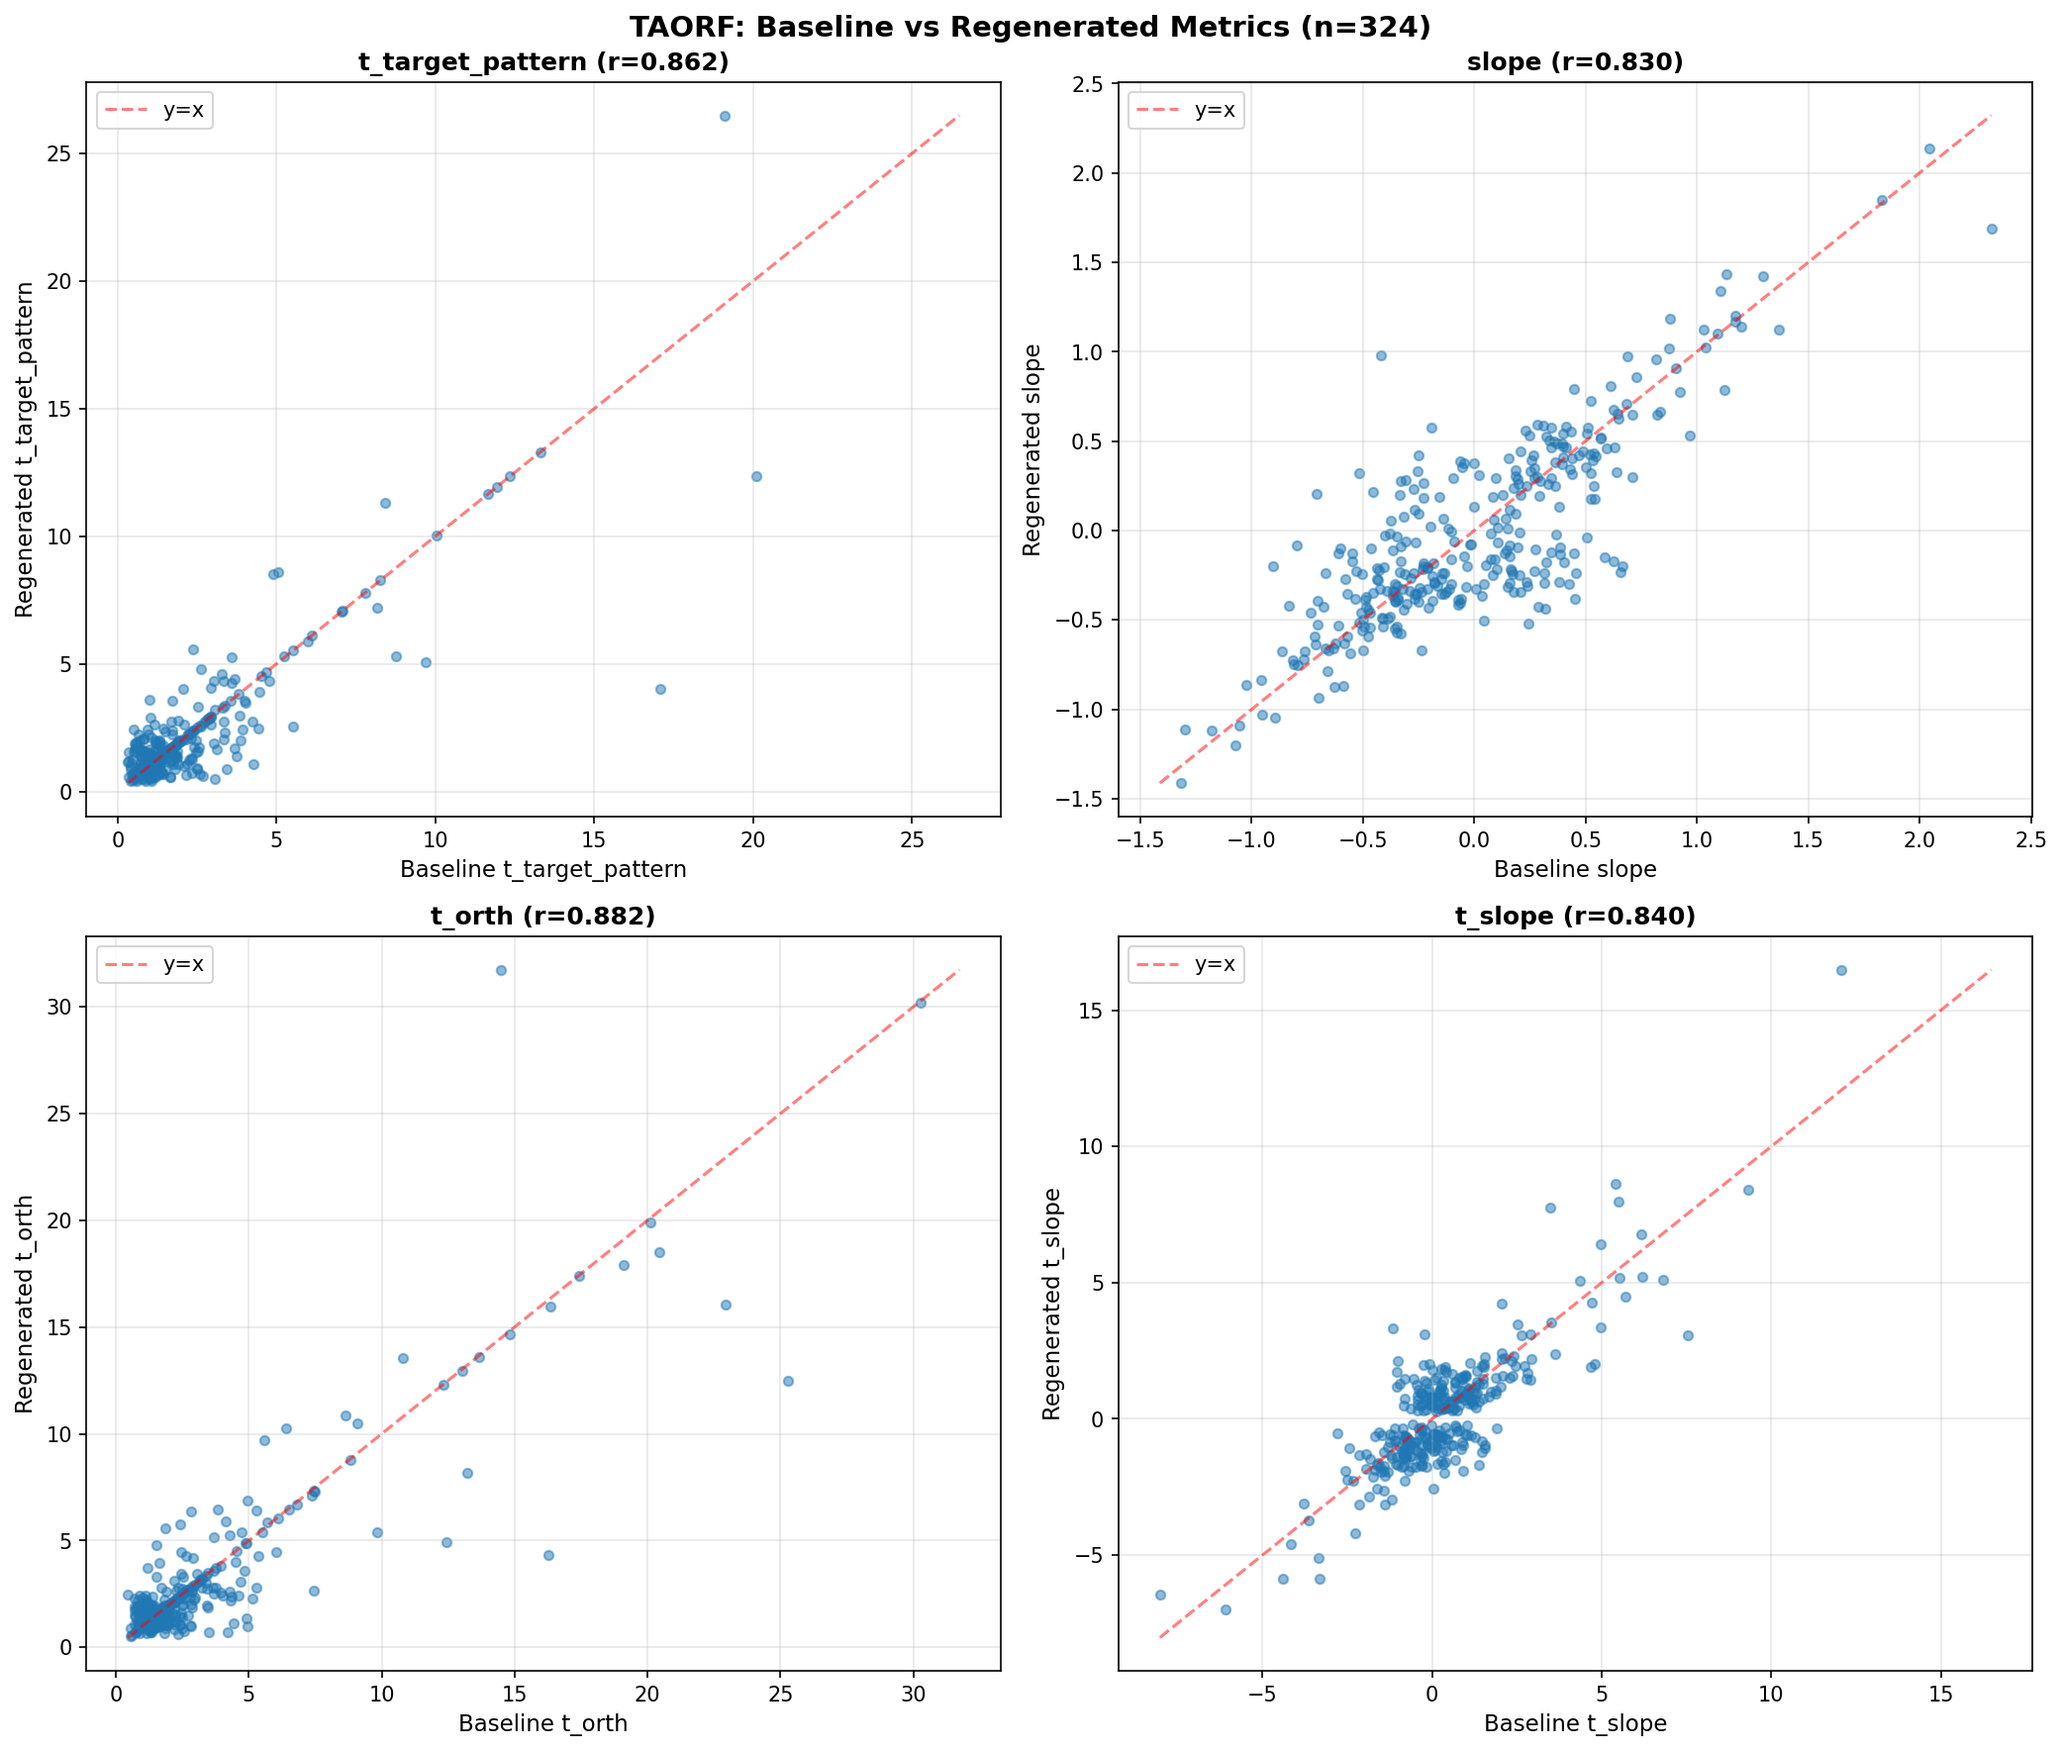
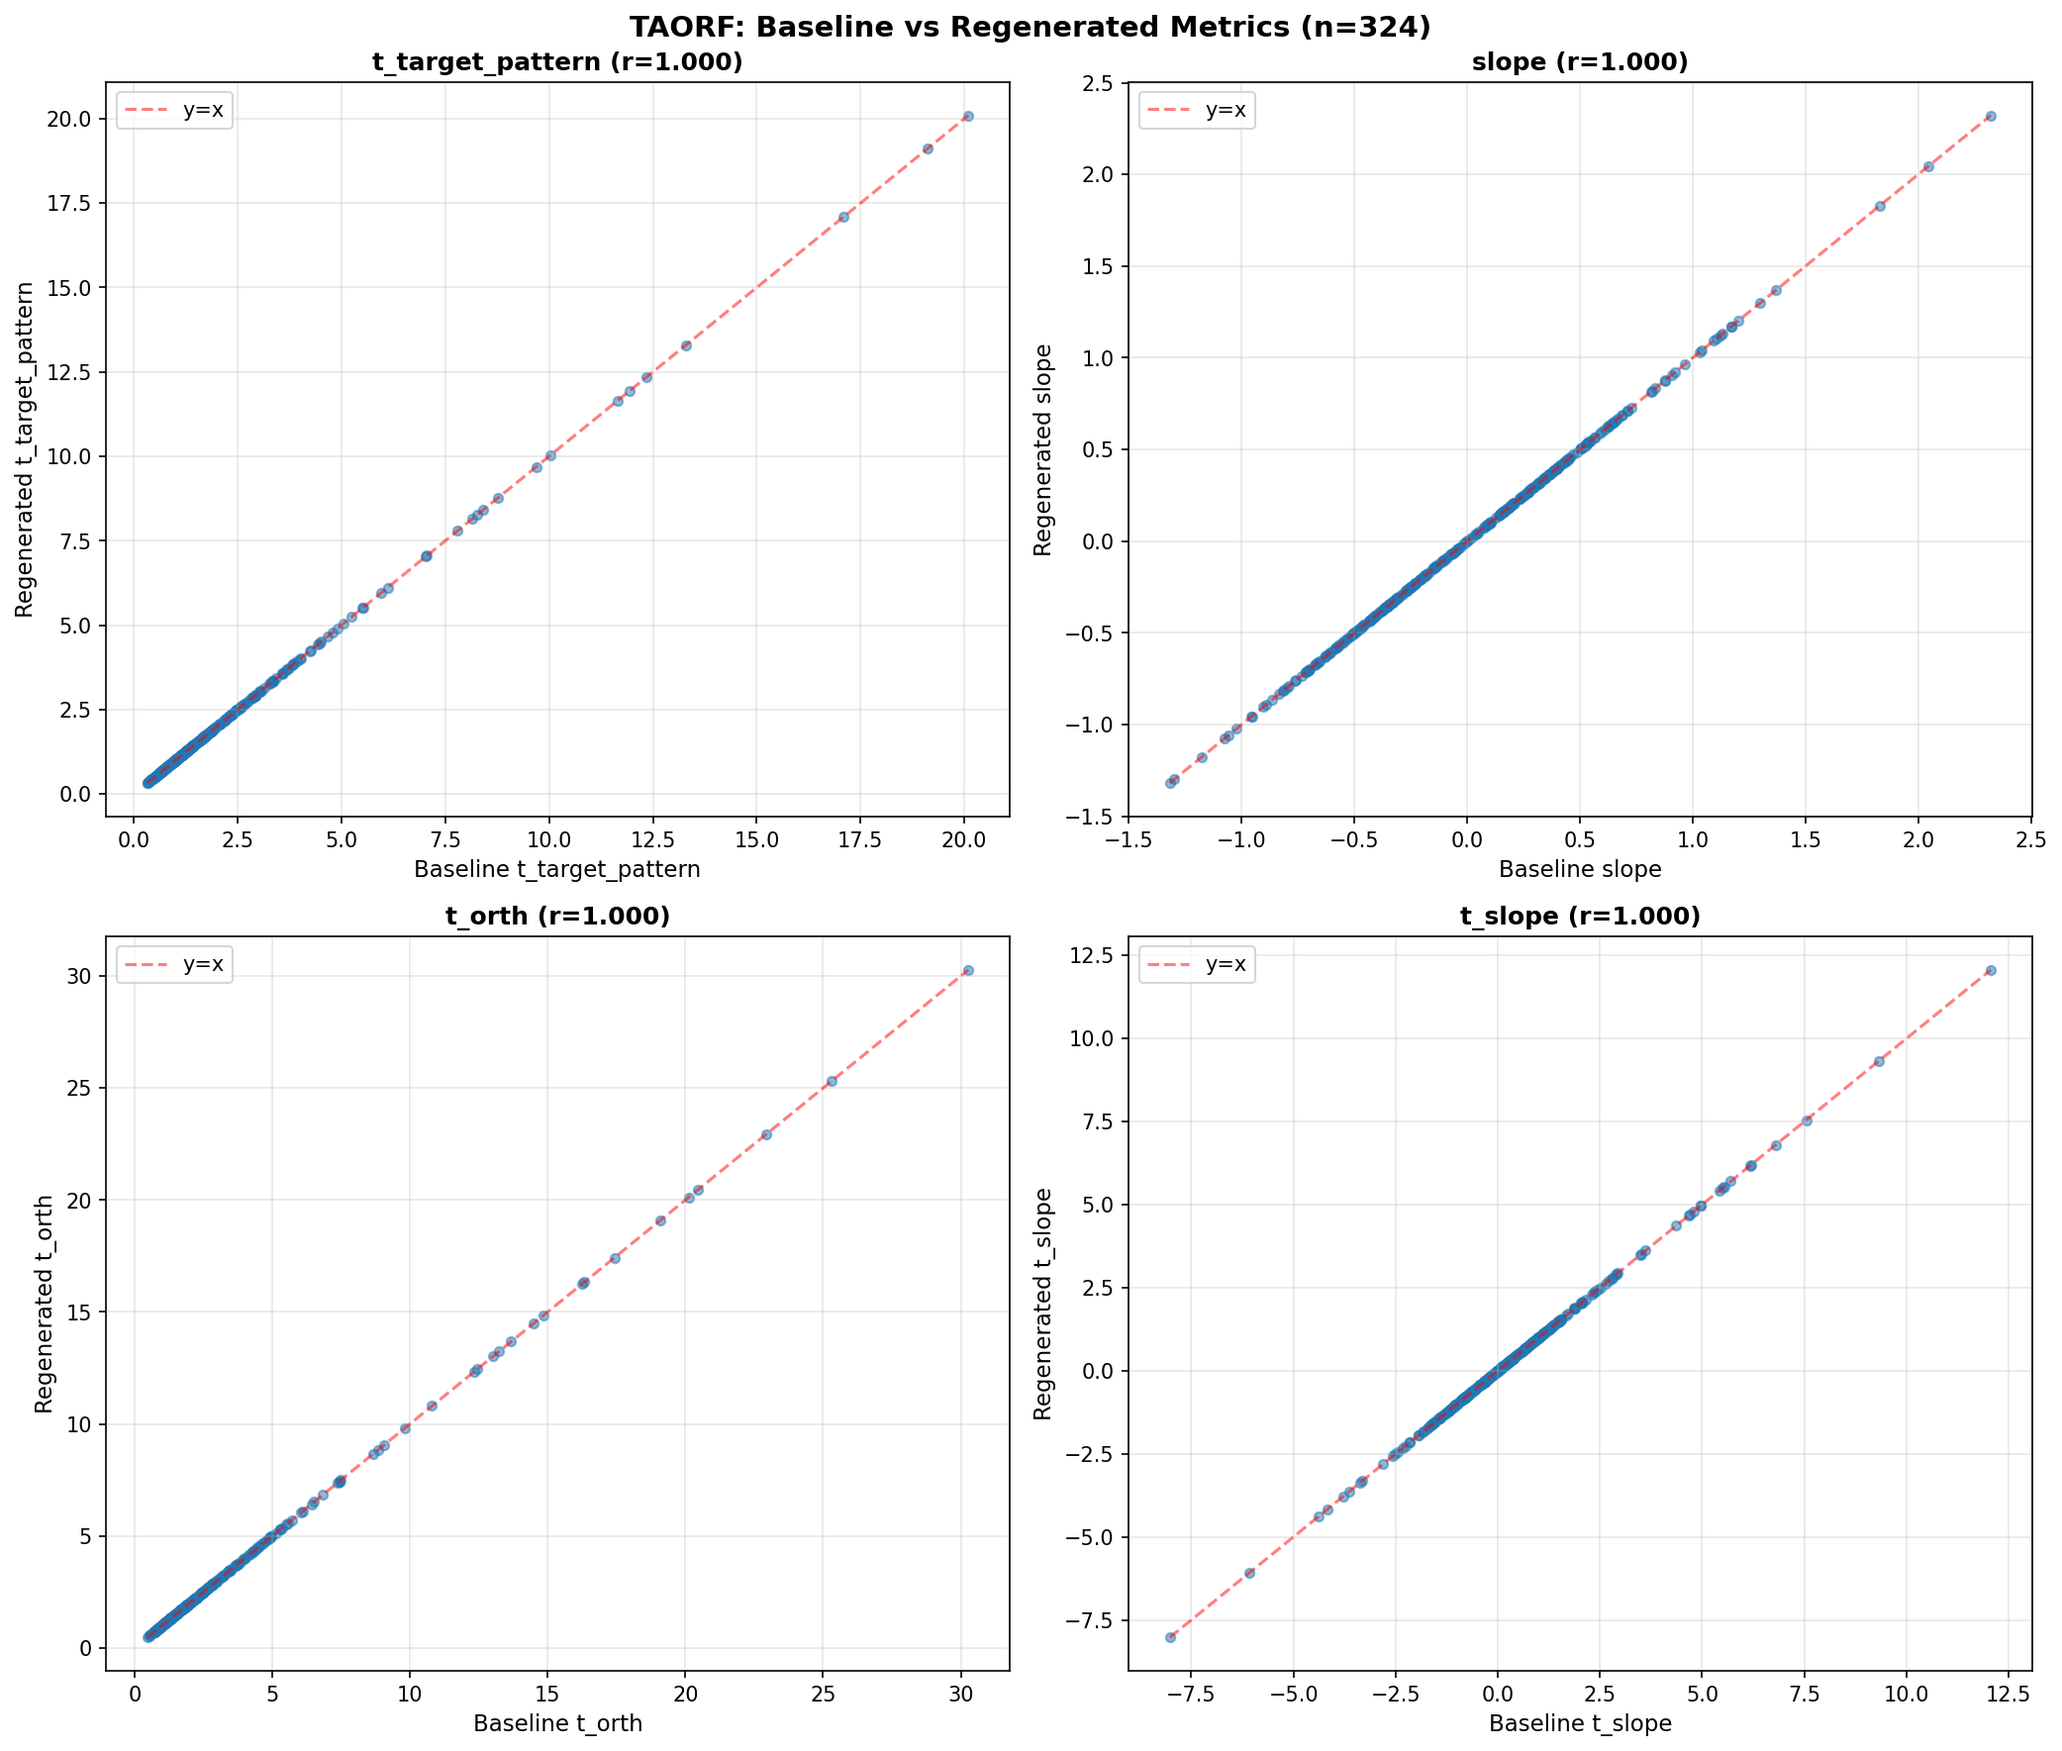
fix: achieve perfect baseline reproduction (r=1.000) for all metrics
Two key fixes identified from upstream notebook 3.rank_perturbations.ipynb:

1. Pre-standardize radial features per plate BEFORE control subtraction
   (calculate_metrics: added z-score normalization at line 272-277)

2. Use nanpercentile for median plate selection instead of argsort(abs())
   (calculate_statistical_tests: lines 528-534)

Also added second standardization pass for radial + orthogonal features
before statistical tests (matches upstream double-standardization).

Results on taorf (n=324) and lincs (n=9395):
- All metrics now show r=1.000 with baseline
- 99.7-100% within 10% agreement

This resolves the reproducibility issue documented in PROGRESS.md.

🤖 Generated with [Claude Code](https://claude.com/claude-code)

diff --git a/haghighi_mito/virtual_screen.py b/haghighi_mito/virtual_screen.py
@@ -269,7 +269,14 @@ def calculate_metrics(per_site_df, annot, dataset: str):
 
     logger.info(f"Using {len(target_columns)} radial distribution bins (5-16)")
 
-    # Step 1: Calculate per-plate control means
+    # Pre-standardize radial features per plate BEFORE control subtraction
+    # (matches upstream notebook 3.rank_perturbations.ipynb)
+    logger.info("Pre-standardizing radial features per plate...")
+    per_site_df[target_columns] = per_site_df.groupby("batch_plate")[target_columns].transform(
+        lambda x: (x - x.mean()) / x.std() if x.std().all() > 0 else x
+    )
+
+    # Step 1: Calculate per-plate control means (now on z-scored data)
     logger.info("Calculating per-plate control means...")
     control_df_perplate = per_site_df.loc[per_site_df["ctrl_well"]].groupby("batch_plate")[target_columns].mean()
 
@@ -472,15 +479,25 @@ def calculate_statistical_tests(per_site_df, dataset: str):
     # Load orthogonal features
     orth_features = load_orthogonal_features(dataset)
 
+    # Filter to orthogonal features that exist in the dataframe
+    orth_features = [f for f in orth_features if f in per_site_df.columns]
+    logger.info(f"Using {len(orth_features)} orthogonal features (after filtering to available columns)")
+
+    # Second standardization of ALL features per plate (matches upstream notebook 3)
+    # Radial features pre-standardized in calculate_metrics(); this adds orth + second pass for both
+    logger.info("Standardizing radial + orthogonal features per plate...")
+    all_features = target_columns + orth_features
+    per_site_df[all_features] = per_site_df.groupby("batch_plate")[all_features].transform(
+        lambda x: (x - x.mean()) / x.std() if x.std().all() > 0 else x
+    )
+
     # Prepare control data by plate
     logger.info("Preparing control data by plate...")
     control_df = per_site_df[per_site_df["ctrl_well"]].copy()
-    # Dict comprehension is correct here (not dict(groupby)) - GroupBy objects aren't directly convertible to dict
     control_dfs_by_plate = {plate: group for plate, group in control_df.groupby("batch_plate")}
     logger.info(f"Prepared controls for {len(control_dfs_by_plate)} plates")
 
     # Get unique perturbations (non-controls only)
-    # Note: ctrl_well is dtype object, so use == False instead of ~ to avoid -1 indexing issue
     pert_df = per_site_df[per_site_df["ctrl_well"] == False].copy()  # noqa: E712
     unique_perts = pert_df[pert_col].dropna().unique()
     logger.info(f"Processing {len(unique_perts)} unique perturbations")
@@ -506,10 +523,13 @@ def calculate_statistical_tests(per_site_df, dataset: str):
         pvals = batch_results["pvals"]  # shape (n_plates, 6)
         plates = batch_results["plates"]
 
-        # Find plate with median d_slope (index 3 of tvals) - using abs() sorting
-        # NOTE: This differs from notebook (which uses percentile without abs())
-        # but empirically matches baseline better (r=0.90 vs 0.85)
-        median_plate_idx = np.argsort(np.abs(tvals[:, 3]))[len(tvals) // 2]
+        # Find plate with median d_slope using nanpercentile (matches upstream notebook 3)
+        median_selection_idx = 3  # d_slope column
+        med_val = np.nanpercentile(tvals[:, median_selection_idx], 50, interpolation="nearest")
+        if not np.isnan(med_val):
+            median_plate_idx = np.argwhere(tvals[:, median_selection_idx] == med_val)[0][0]
+        else:
+            median_plate_idx = 0  # fallback
         median_plate_id = plates[median_plate_idx]
 
         # Get t-values from median plate
@@ -518,7 +538,7 @@ def calculate_statistical_tests(per_site_df, dataset: str):
         t_slope = tvals[median_plate_idx, 2]
         d_slope = tvals[median_plate_idx, 3]
 
-        # Get p-values from median plate (matches notebook 2.0 lines 1401-1410)
+        # Get p-values from median plate
         p_target_pattern = pvals[median_plate_idx, 0]
         p_orth = pvals[median_plate_idx, 1]
         p_slope = pvals[median_plate_idx, 2]
